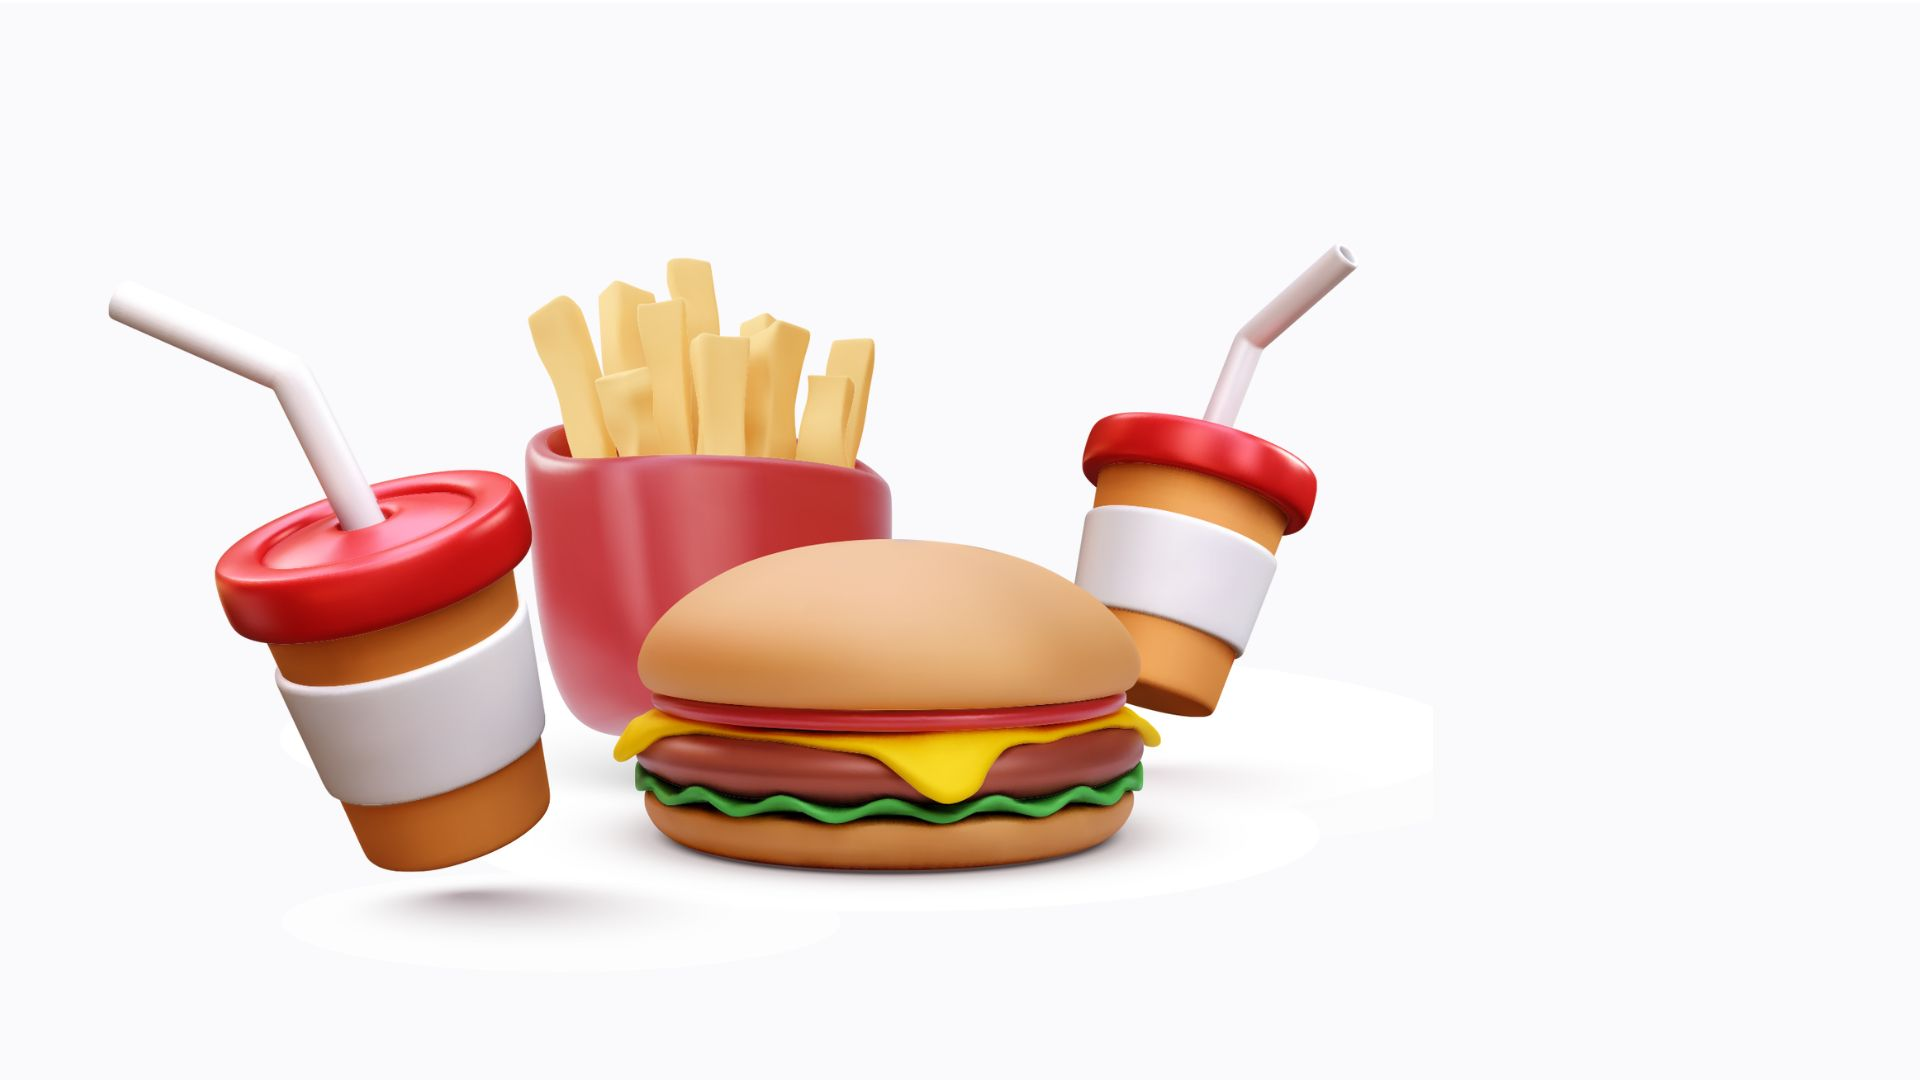
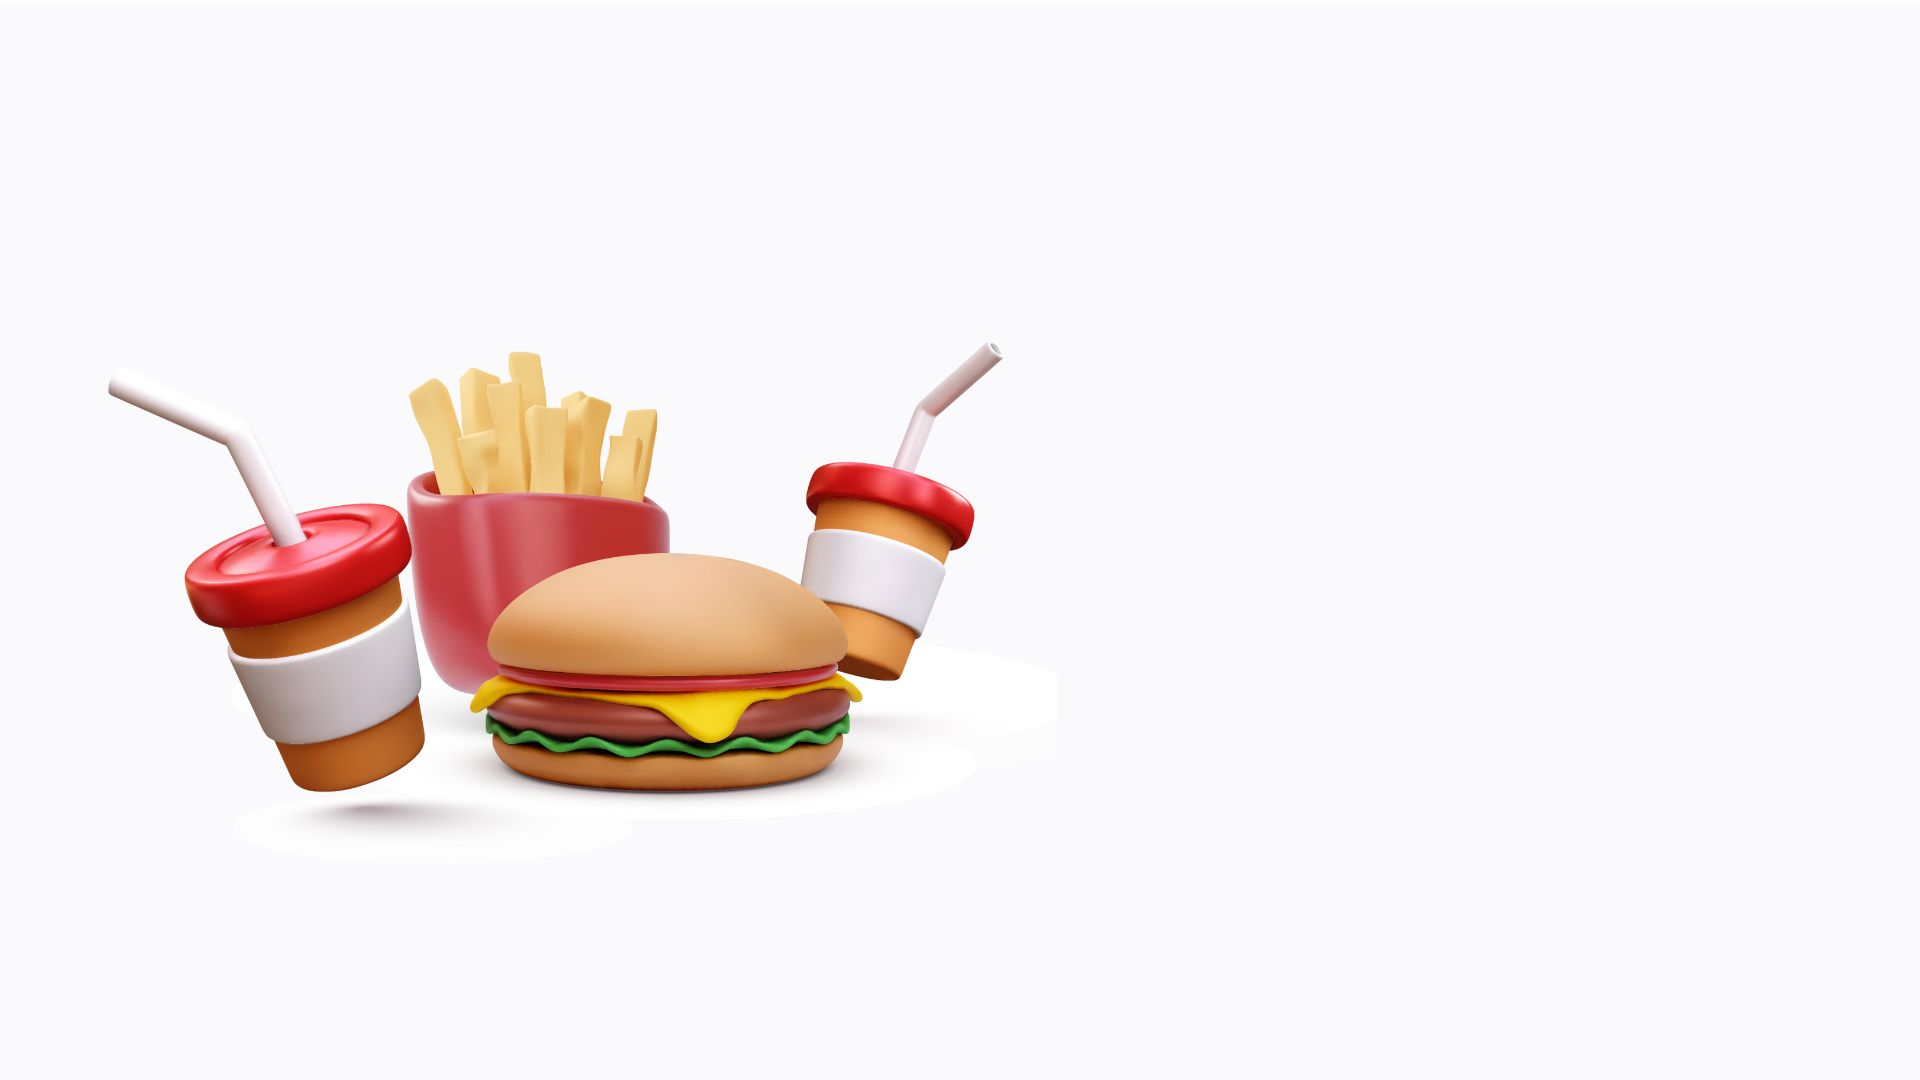
images uploaded

Changed region(s): [[0.0625, 0.2139, 0.7188, 0.8556], [0.0312, 0.275, 0.125, 0.3361]]

diff --git a/themes/olmo/css/style.css b/themes/olmo/css/style.css
@@ -3174,7 +3174,7 @@ p.terms-txt a,
 
 #varejo{
   position: relative;
-  background-image: url(../images/alimentacao/hero-9.jpg);
+  background-image: url(../images/varejo_banner.jpg);
   padding-top: 180px;
   padding-bottom: 50px;
 }
